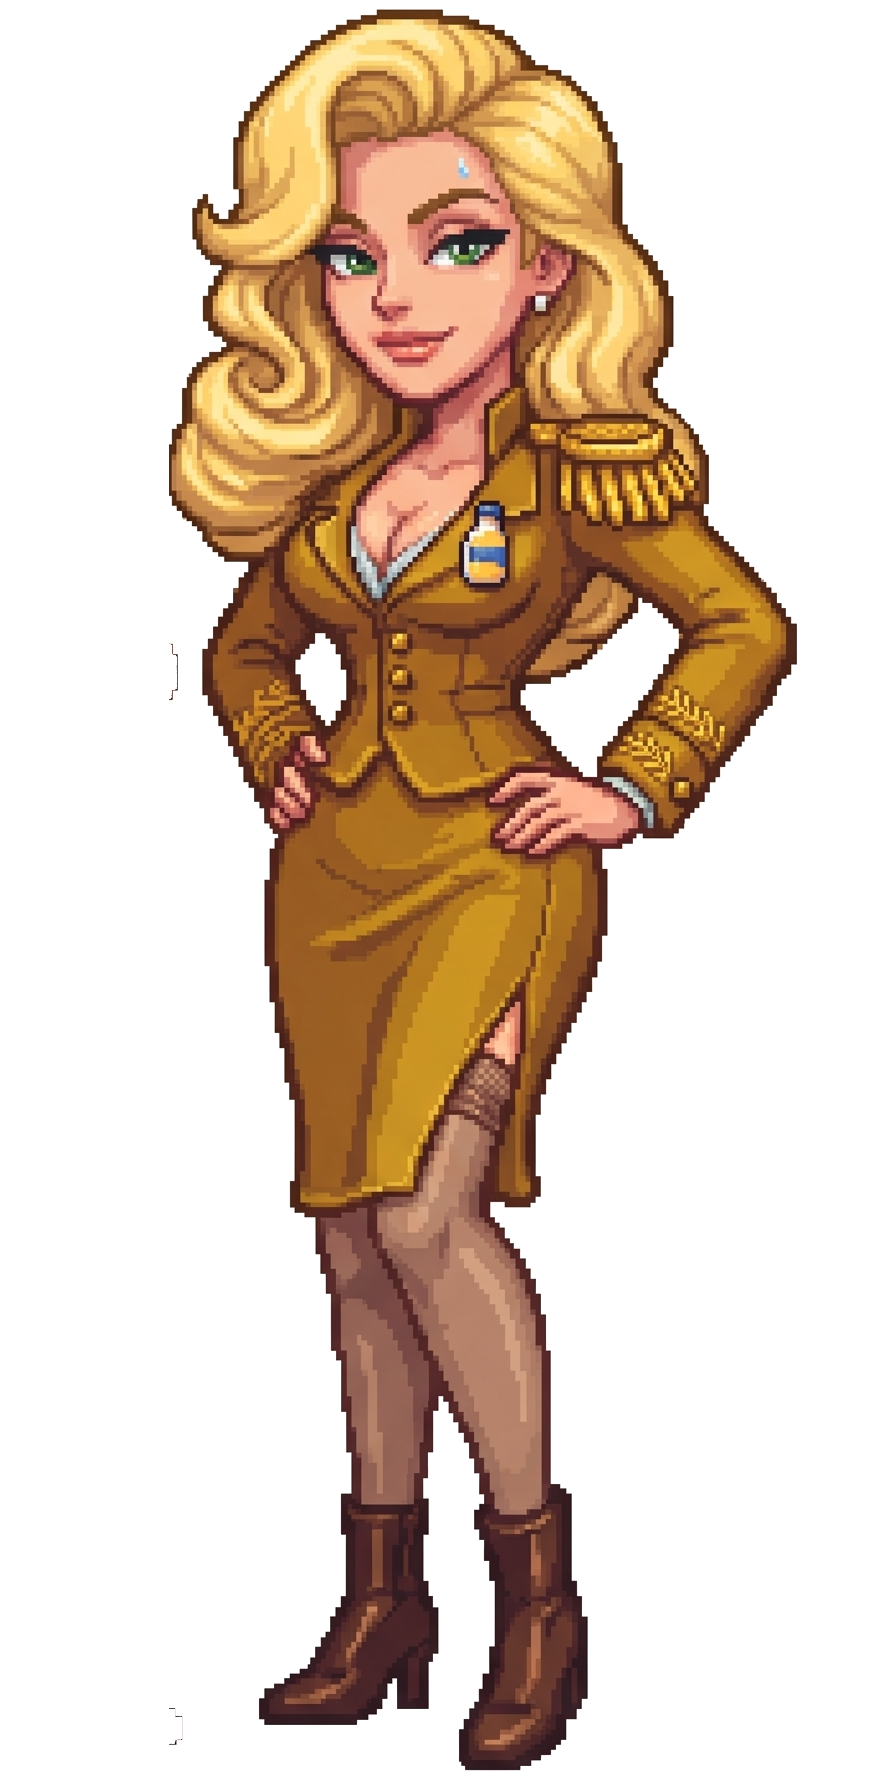
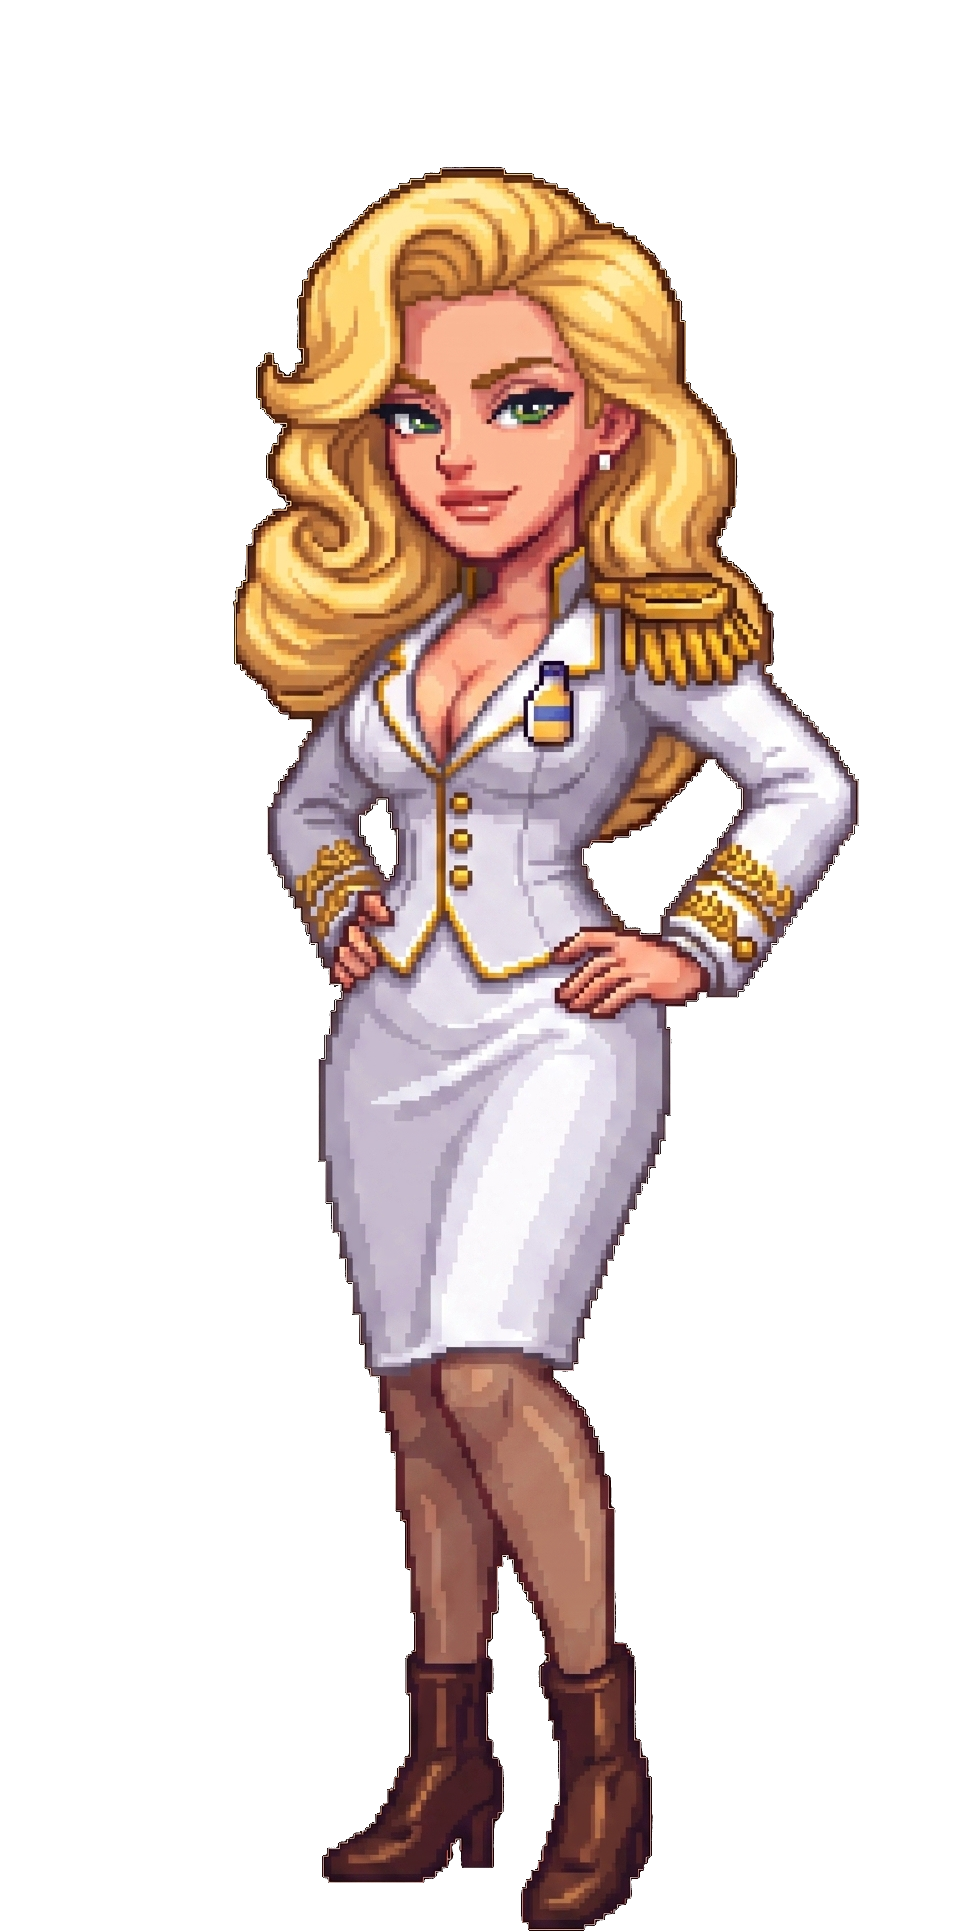
ajout animation mayo et wasabi

diff --git a/Main/requirements/frontend/app/src/components/game/DialogueArea.tsx b/Main/requirements/frontend/app/src/components/game/DialogueArea.tsx
@@ -31,6 +31,113 @@ function FontClassesSafelist() {
 }
 
 // ============================================
+// COMPOSANT : AnimatedMayoPortrait (pour les dialogues)
+// Affiche Lieutenant Mayo avec animation : normal → yeux fermés → clin d'œil → sourire
+// ============================================
+function AnimatedMayoPortrait({ className }: { className?: string }) {
+  const [currentIndex, setCurrentIndex] = useState(0);
+  const images = [
+    '/headLieutenantMayo.webp',
+    '/headLieutenantMayoClosedEyes.webp',
+    '/headLieutenantMayo.webp',
+    '/headLieutenantMayoWink.webp',
+    '/headLieutenantMayo.webp',
+    '/headLieutenantMayoSmile.webp',
+  ];
+
+  // Séquence avec timings personnalisés (en ms)
+  useEffect(() => {
+    const sequence = [
+      { delay: 0, index: 0 },        // Normal (0s)
+      { delay: 2000, index: 1 },     // Yeux fermés (2s)
+      { delay: 2200, index: 2 },     // Normal (2.2s)
+      { delay: 3200, index: 3 },     // Clin d'œil (3.2s)
+      { delay: 3700, index: 4 },     // Normal (3.7s)
+      { delay: 4700, index: 5 },     // Sourire (4.7s)
+    ];
+
+    // Démarre la séquence
+    sequence.forEach((step) => {
+      setTimeout(() => {
+        setCurrentIndex(step.index);
+      }, step.delay);
+    });
+
+    // Boucle la séquence
+    const totalDuration = 4700 + 2500; // 4.7s + 2.5s (sourire) = 7.2s
+    const loopInterval = setInterval(() => {
+      setCurrentIndex(0); // Réinitialise à normal
+      sequence.forEach((step) => {
+        setTimeout(() => {
+          setCurrentIndex(step.index);
+        }, step.delay);
+      });
+    }, totalDuration);
+
+    return () => clearInterval(loopInterval);
+  }, []);
+
+  return (
+    <img
+      src={images[currentIndex]}
+      alt="Lieutenant Mayo"
+      className={className}
+    />
+  );
+}
+
+// ============================================
+// COMPOSANT : AnimatedWasabiPortrait (pour les dialogues)
+// Animation de pleurs : petites larmes → fontaine de pleurs → petites larmes
+// ============================================
+function AnimatedWasabiPortrait({ className }: { className?: string }) {
+  const [currentIndex, setCurrentIndex] = useState(1); // Commence par petites larmes
+  const images = [
+    '/headMajorWasabi.webp',        // Normal (transition discrète)
+    '/headMajorWasabiTears.webp',   // Petites larmes (état principal)
+    '/headMajorWasabiCrying.webp',  // Fontaine de pleurs (pic émotionnel)
+  ];
+
+  // Séquence : petites larmes → fontaine → petites larmes → fontaine
+  useEffect(() => {
+    const sequence = [
+      { delay: 0, index: 1 },       // Petites larmes (départ)
+      { delay: 3500, index: 2 },     // Fontaine après 3.5s
+      { delay: 4000, index: 1 },     // Retour petites larmes après 0.5s
+      { delay: 6500, index: 2 },     // Nouvelle fontaine après 2.5s
+      { delay: 6800, index: 1 },     // Retour petites larmes après 0.3s
+    ];
+
+    // Démarre la séquence
+    sequence.forEach((step) => {
+      setTimeout(() => {
+        setCurrentIndex(step.index);
+      }, step.delay);
+    });
+
+    // Boucle (6.8s total)
+    const loopInterval = setInterval(() => {
+      setCurrentIndex(1); // Recommence par petites larmes
+      sequence.forEach((step) => {
+        setTimeout(() => {
+          setCurrentIndex(step.index);
+        }, step.delay);
+      });
+    }, 6800);
+
+    return () => clearInterval(loopInterval);
+  }, []);
+
+  return (
+    <img
+      src={images[currentIndex]}
+      alt="Major Wasabi"
+      className={className}
+    />
+  );
+}
+
+// ============================================
 // HOOK : Détecte la taille d'écran (responsive)
 // ============================================
 function useMediaQuery(query: string): boolean {
@@ -144,11 +251,17 @@ function DialogueBubble({ sender, text, isSystem, align, index }: DialogueBubble
             opacity: 0.6,
           }}
         />
-        <img
-          src={getHeadImagePath(sender)}
-          alt={sender}
-          className="relative w-full h-full object-cover rounded-lg border-2 border-white/50"
-        />
+        {sender === 'Lieutenant Mayo' ? (
+          <AnimatedMayoPortrait className="relative w-full h-full object-cover rounded-lg border-2 border-white/50" />
+        ) : sender === 'Major Wasabi' ? (
+          <AnimatedWasabiPortrait className="relative w-full h-full object-cover rounded-lg border-2 border-white/50" />
+        ) : (
+          <img
+            src={getHeadImagePath(sender)}
+            alt={sender}
+            className="relative w-full h-full object-cover rounded-lg border-2 border-white/50"
+          />
+        )}
       </motion.div>
       
       {/* ==================================
